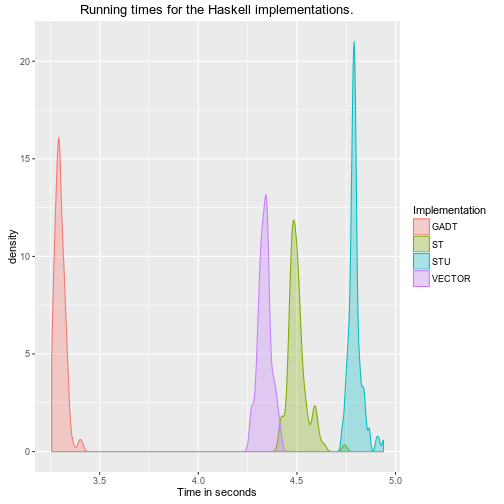
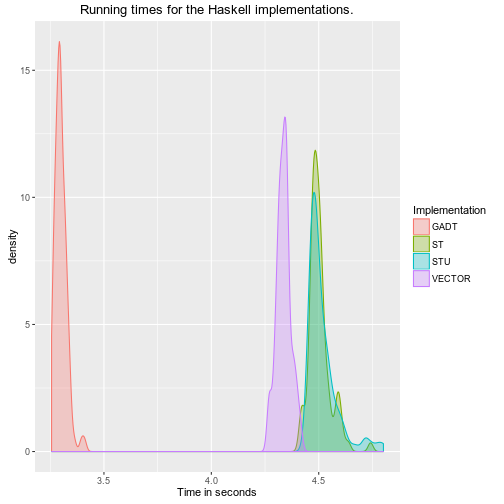
Updated the resulting markdown document

diff --git a/result/main.md b/result/main.md
@@ -10,7 +10,7 @@ also compared performance with python.
 
 ## Method
 
-I made three implementations of *stochastic gradient descent* **(SGD)** to train logistic
+I made various implementations of *stochastic gradient descent* **(SGD)** to train logistic
 regression models.  SGD finds the optimal parameters for the model using one
 example at a time, in contrast to batch-gradient descent which uses many samples
 at once to train the model. SGD only requires to define vector dot product. The
@@ -116,11 +116,12 @@ nextModel lambda learningRate difference (Vector sn nResultElements modelArr) (V
    return result
 
 sigmoidHypothesis :: Model -> Features -> Target
-sigmoidHypothesis (Vector sn _ modelArr) (Vector _ _ featuresArr) = runST $ do
+sigmoidHypothesis (Vector _ nElements modelArr) (Vector _ _ featuresArr) = runST $ do
    expo <- newSTRef $ modelArr ! 1
-   forM_ [2..(snatToInt sn)] (\elementIndex ->
+   forM_ [2..nElements] (\elementIndex ->
          modifySTRef expo (+ (modelArr ! elementIndex) * (featuresArr ! (elementIndex - 1))))
    readSTRef expo >>= \e -> return $ 1 / (1 + exp (negate e))
+
 ```
 
 The whole code can be found [here](../src/MainST.hs).
@@ -133,6 +134,41 @@ arrays are a lighter version of `IArray`. It is also easy to change code using
 implementation does just that.
 
 The whole code can be found [here](../src/MainSTU.hs).
+
+**Data.Vector**
+
+Haskell's [Data.Vector](https://hackage.haskell.org/package/vector) library is
+an efficient implementation of Int-indexed arrays (both mutable and immutable),
+with a powerful loop optimisation framework.
+
+Here are the highlights of implementing SGD using this library:
+
+```haskell
+{-# INLINE nextModel #-}
+import qualified Data.Vector as V
+
+data Vector :: Nat -> * where
+   Vector :: SNat n -> V.Vector Double -> Vector n
+
+nextModel ::
+   Double -> --lambda
+   Double -> --learningRate
+   Double -> --difference
+   Model -> --model
+   Features -> 
+   Model --the resulting model
+
+nextModel lambda learningRate difference (Vector sn modelArr) (Vector _ featureArr) = Vector sn $
+   V.update
+      (V.zipWith (-) modelArr $ (* learningRate) <$> V.zipWith (+) (fmap (* difference) featureArr) (fmap (* lambda) modelArr))
+      (V.singleton (0, (modelArr V.! 0) - learningRate * difference))
+
+sigmoidHypothesis :: Model -> Features -> Target
+sigmoidHypothesis (Vector _ modelArr) (Vector _ featuresArr) =
+   1 / ( 1 + exp (negate $ V.foldl' (+) 0 $ V.zipWith (*) modelArr (V.cons 1 featuresArr)))
+```
+
+The whole code can be found [here](../src/MainVector.hs).
 
 **Python**
 
@@ -163,12 +199,12 @@ implementation.
 
 ```
 ##       GADT             ST             STU            VECTOR     
-##  Min.   :3.256   Min.   :4.415   Min.   :4.729   Min.   :4.262  
-##  1st Qu.:3.280   1st Qu.:4.474   1st Qu.:4.778   1st Qu.:4.317  
-##  Median :3.296   Median :4.494   Median :4.790   Median :4.337  
-##  Mean   :3.299   Mean   :4.503   Mean   :4.795   Mean   :4.337  
-##  3rd Qu.:3.315   3rd Qu.:4.517   3rd Qu.:4.802   3rd Qu.:4.352  
-##  Max.   :3.410   Max.   :4.742   Max.   :4.939   Max.   :4.418
+##  Min.   :3.256   Min.   :4.415   Min.   :4.446   Min.   :4.262  
+##  1st Qu.:3.280   1st Qu.:4.474   1st Qu.:4.471   1st Qu.:4.317  
+##  Median :3.296   Median :4.494   Median :4.494   Median :4.337  
+##  Mean   :3.299   Mean   :4.503   Mean   :4.518   Mean   :4.337  
+##  3rd Qu.:3.315   3rd Qu.:4.517   3rd Qu.:4.537   3rd Qu.:4.352  
+##  Max.   :3.410   Max.   :4.742   Max.   :4.801   Max.   :4.418
 ```
 
 **Comparing to (python + numpy)**
